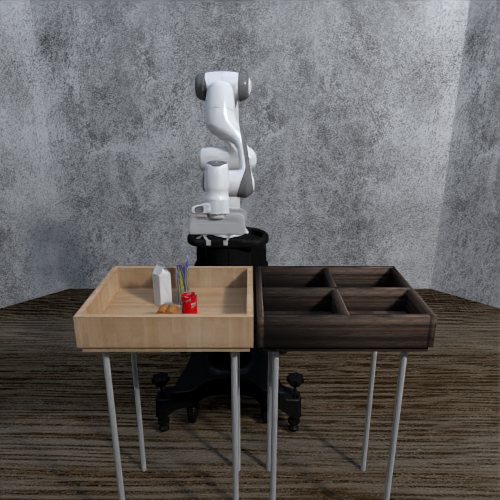
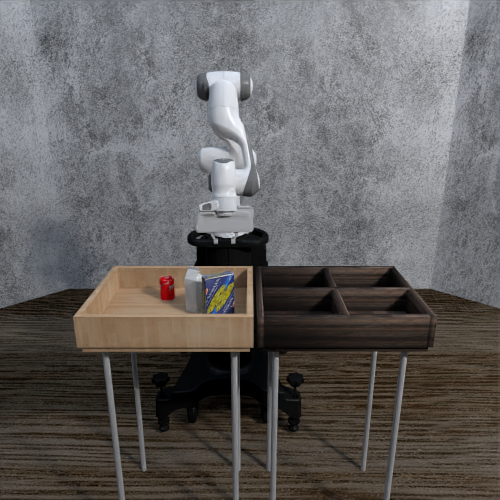
gripper quat bug fix

Changed region(s): [[0.36, 0.15, 0.51, 0.51], [0.24, 0.51, 0.48, 0.63]]

diff --git a/robosuite/renderers/nvisii_new/nvisii_wrapper.py b/robosuite/renderers/nvisii_new/nvisii_wrapper.py
@@ -68,7 +68,7 @@ class NViSIIWrapper(Wrapper):
         self.light_1.get_transform().set_scale(nvisii.vec3(0.3))
         self.light_1.get_transform().set_position(nvisii.vec3(3, 3, 4))
 
-        self._init_floor(image="wood-floor-4k.jpg")
+        self._init_floor(image="plywood-4k.jpg")
         self._init_walls(image="marble-4k.jpg")
         self._init_camera()
         # Sets the primary camera of the renderer to the camera entity
@@ -76,7 +76,7 @@ class NViSIIWrapper(Wrapper):
         self._camera_configuration(pos_vec = nvisii.vec3(0, 0, 1), 
                                    at_vec  = nvisii.vec3(0, 0, 1), 
                                    up_vec  = nvisii.vec3(0, 0, 1),
-                                   eye_vec = nvisii.vec3(1.5, 0, 1.5))
+                                   eye_vec = nvisii.vec3(1, 1, 1.5))
         
         # Environment configuration
         self._dome_light_intensity = 1
@@ -219,6 +219,7 @@ class NViSIIWrapper(Wrapper):
 
         if parent_body != 'worldbody':
             if self.tag_in_name(name):
+                # print(name, parent_body)
                 pos = self.env.sim.data.get_body_xpos(parent_body)
             else:
                 pos = self.env.sim.data.get_geom_xpos(name)
@@ -226,7 +227,8 @@ class NViSIIWrapper(Wrapper):
             B = self.env.sim.data.body_xmat[self.env.sim.model.body_name2id(parent_body)].reshape((3, 3))      
             quat_xyzw_body = utils.quaternion_from_matrix3(B)
             quat_wxyz_body = np.array([quat_xyzw_body[3], quat_xyzw_body[0], quat_xyzw_body[1], quat_xyzw_body[2]]) # wxyz
-            nvisii_quat = nvisii.quat(*geom_quat) * nvisii.quat(*quat_wxyz_body)
+            nvisii_quat = nvisii.quat(*quat_wxyz_body) * nvisii.quat(*geom_quat)
+
         else:
             pos = [0,0,0]
             nvisii_quat = nvisii.quat([1,0,0,0]) # wxyz

diff --git a/robosuite/renderers/nvisii_new/parser.py b/robosuite/renderers/nvisii_new/parser.py
@@ -1,6 +1,7 @@
 import numpy as np
 import xml.etree.ElementTree as ET
 
+import nvisii
 from robosuite.utils.mjcf_utils import string_to_array
 from nvisii_utils import load_object
 
